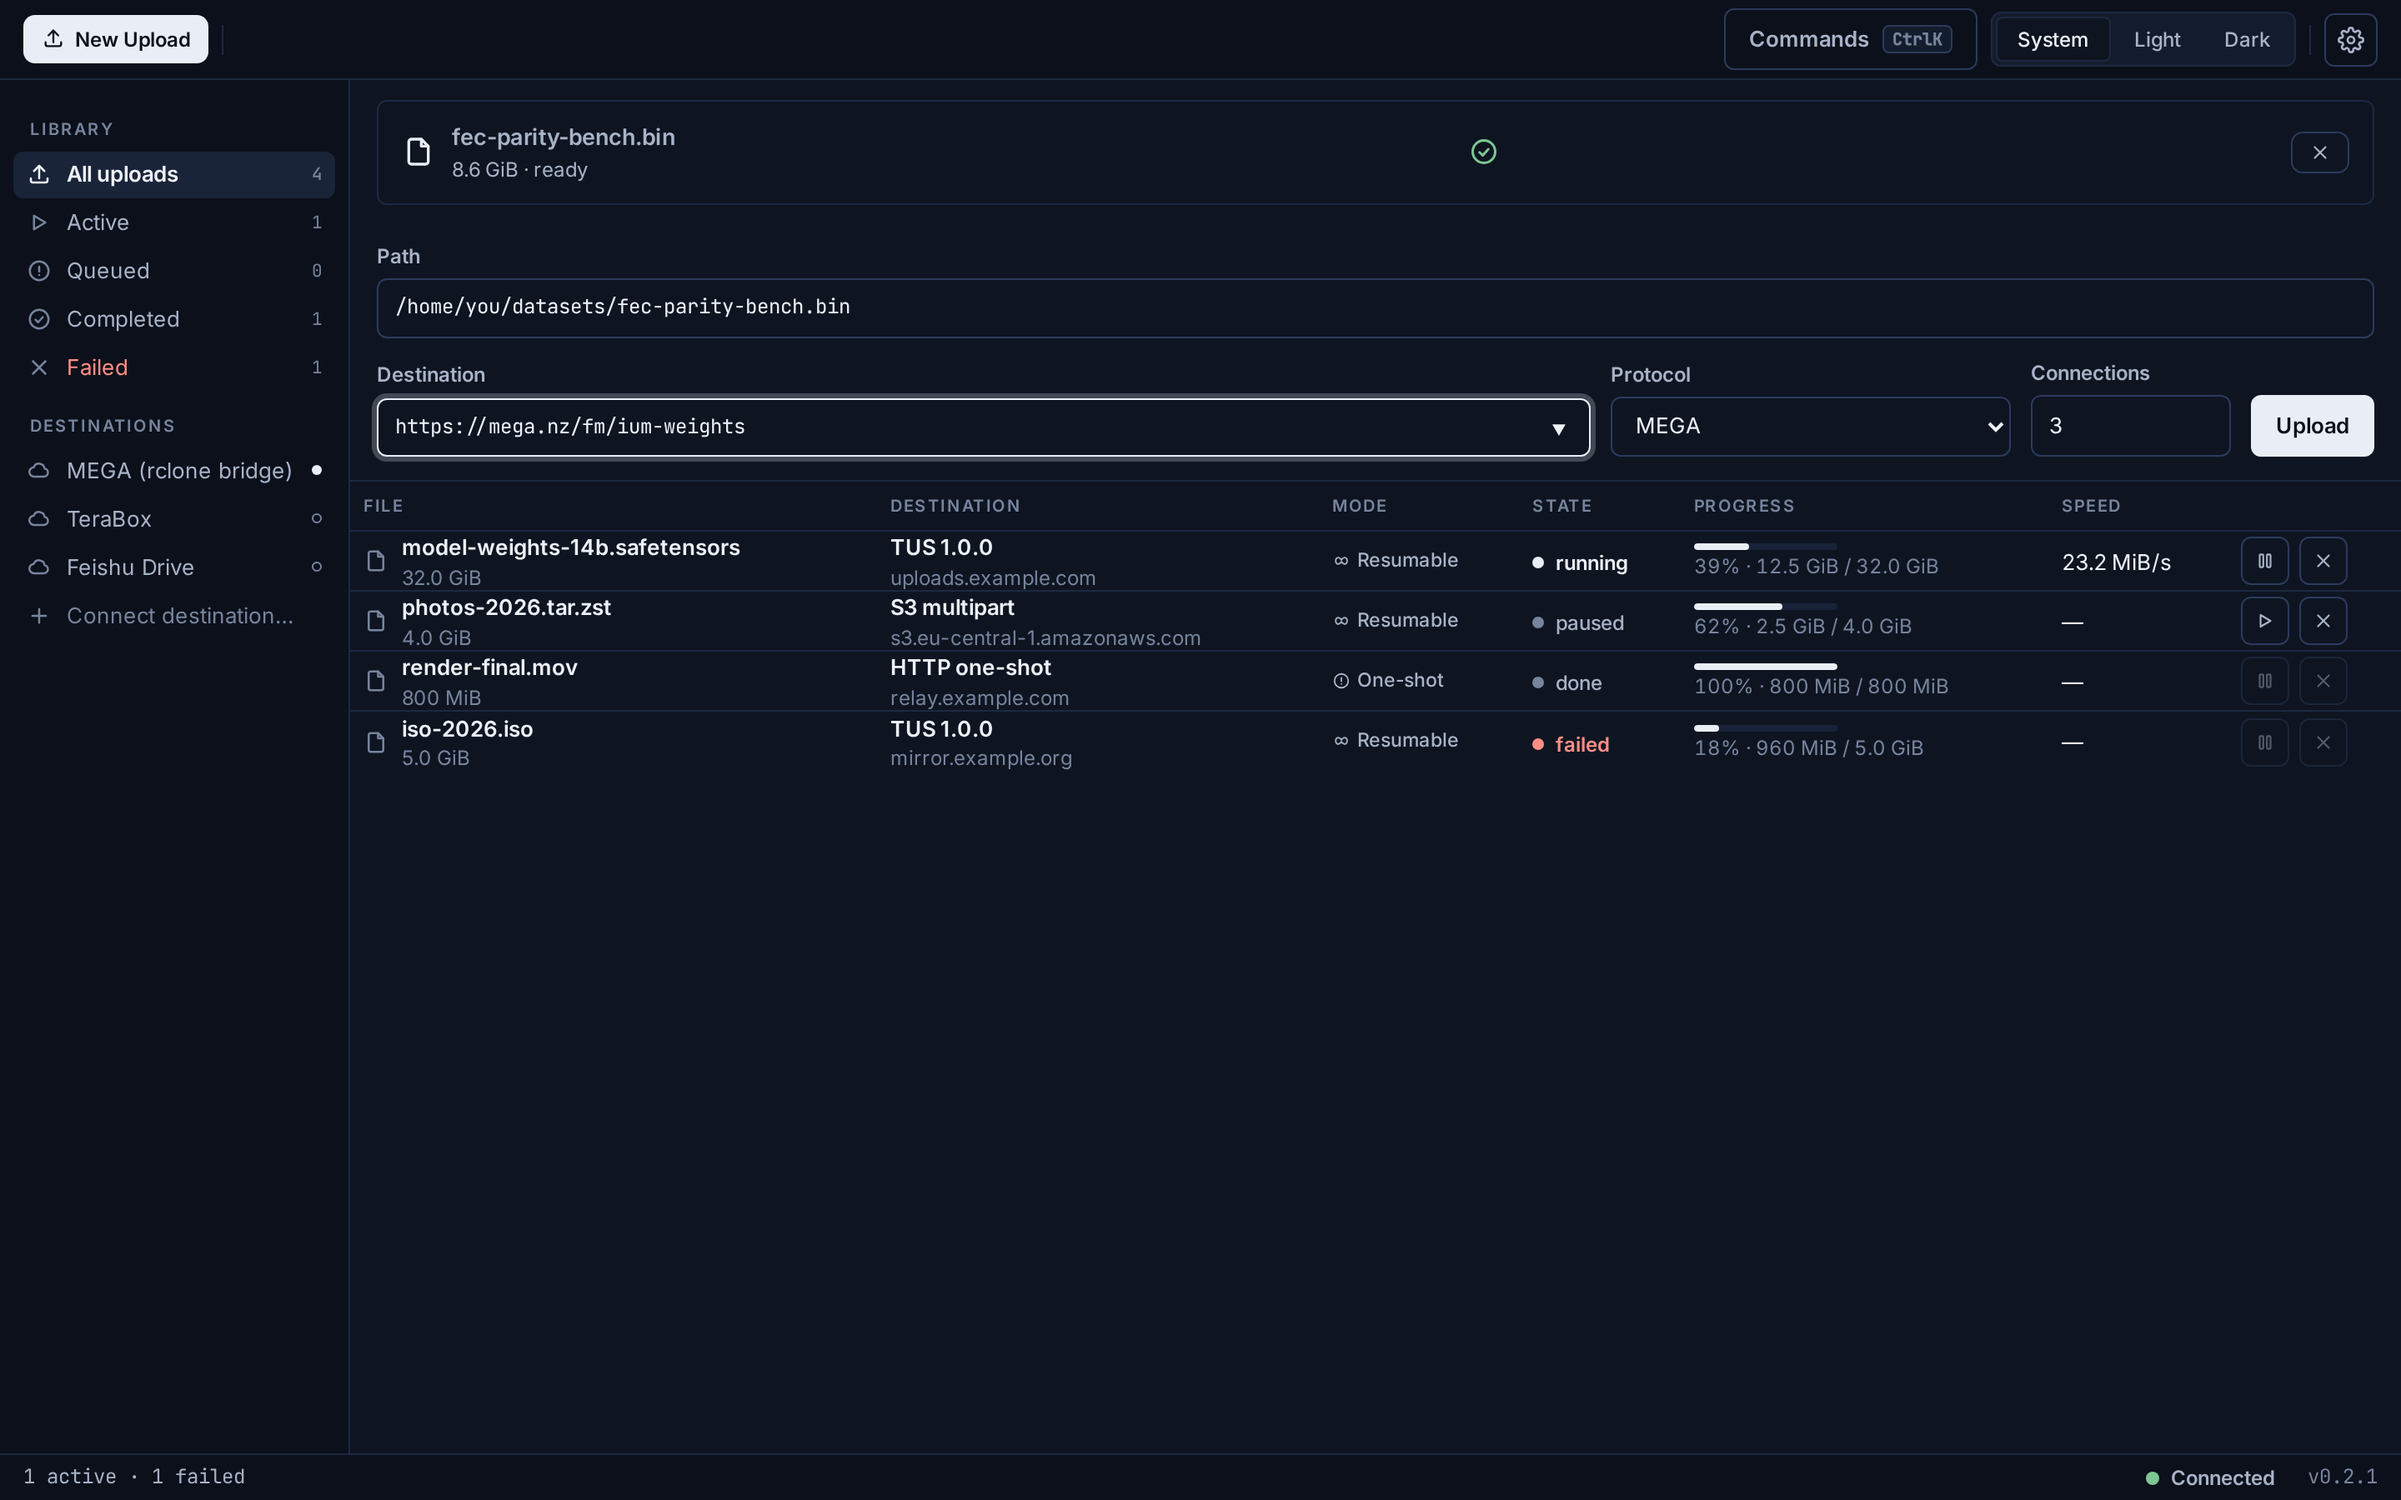
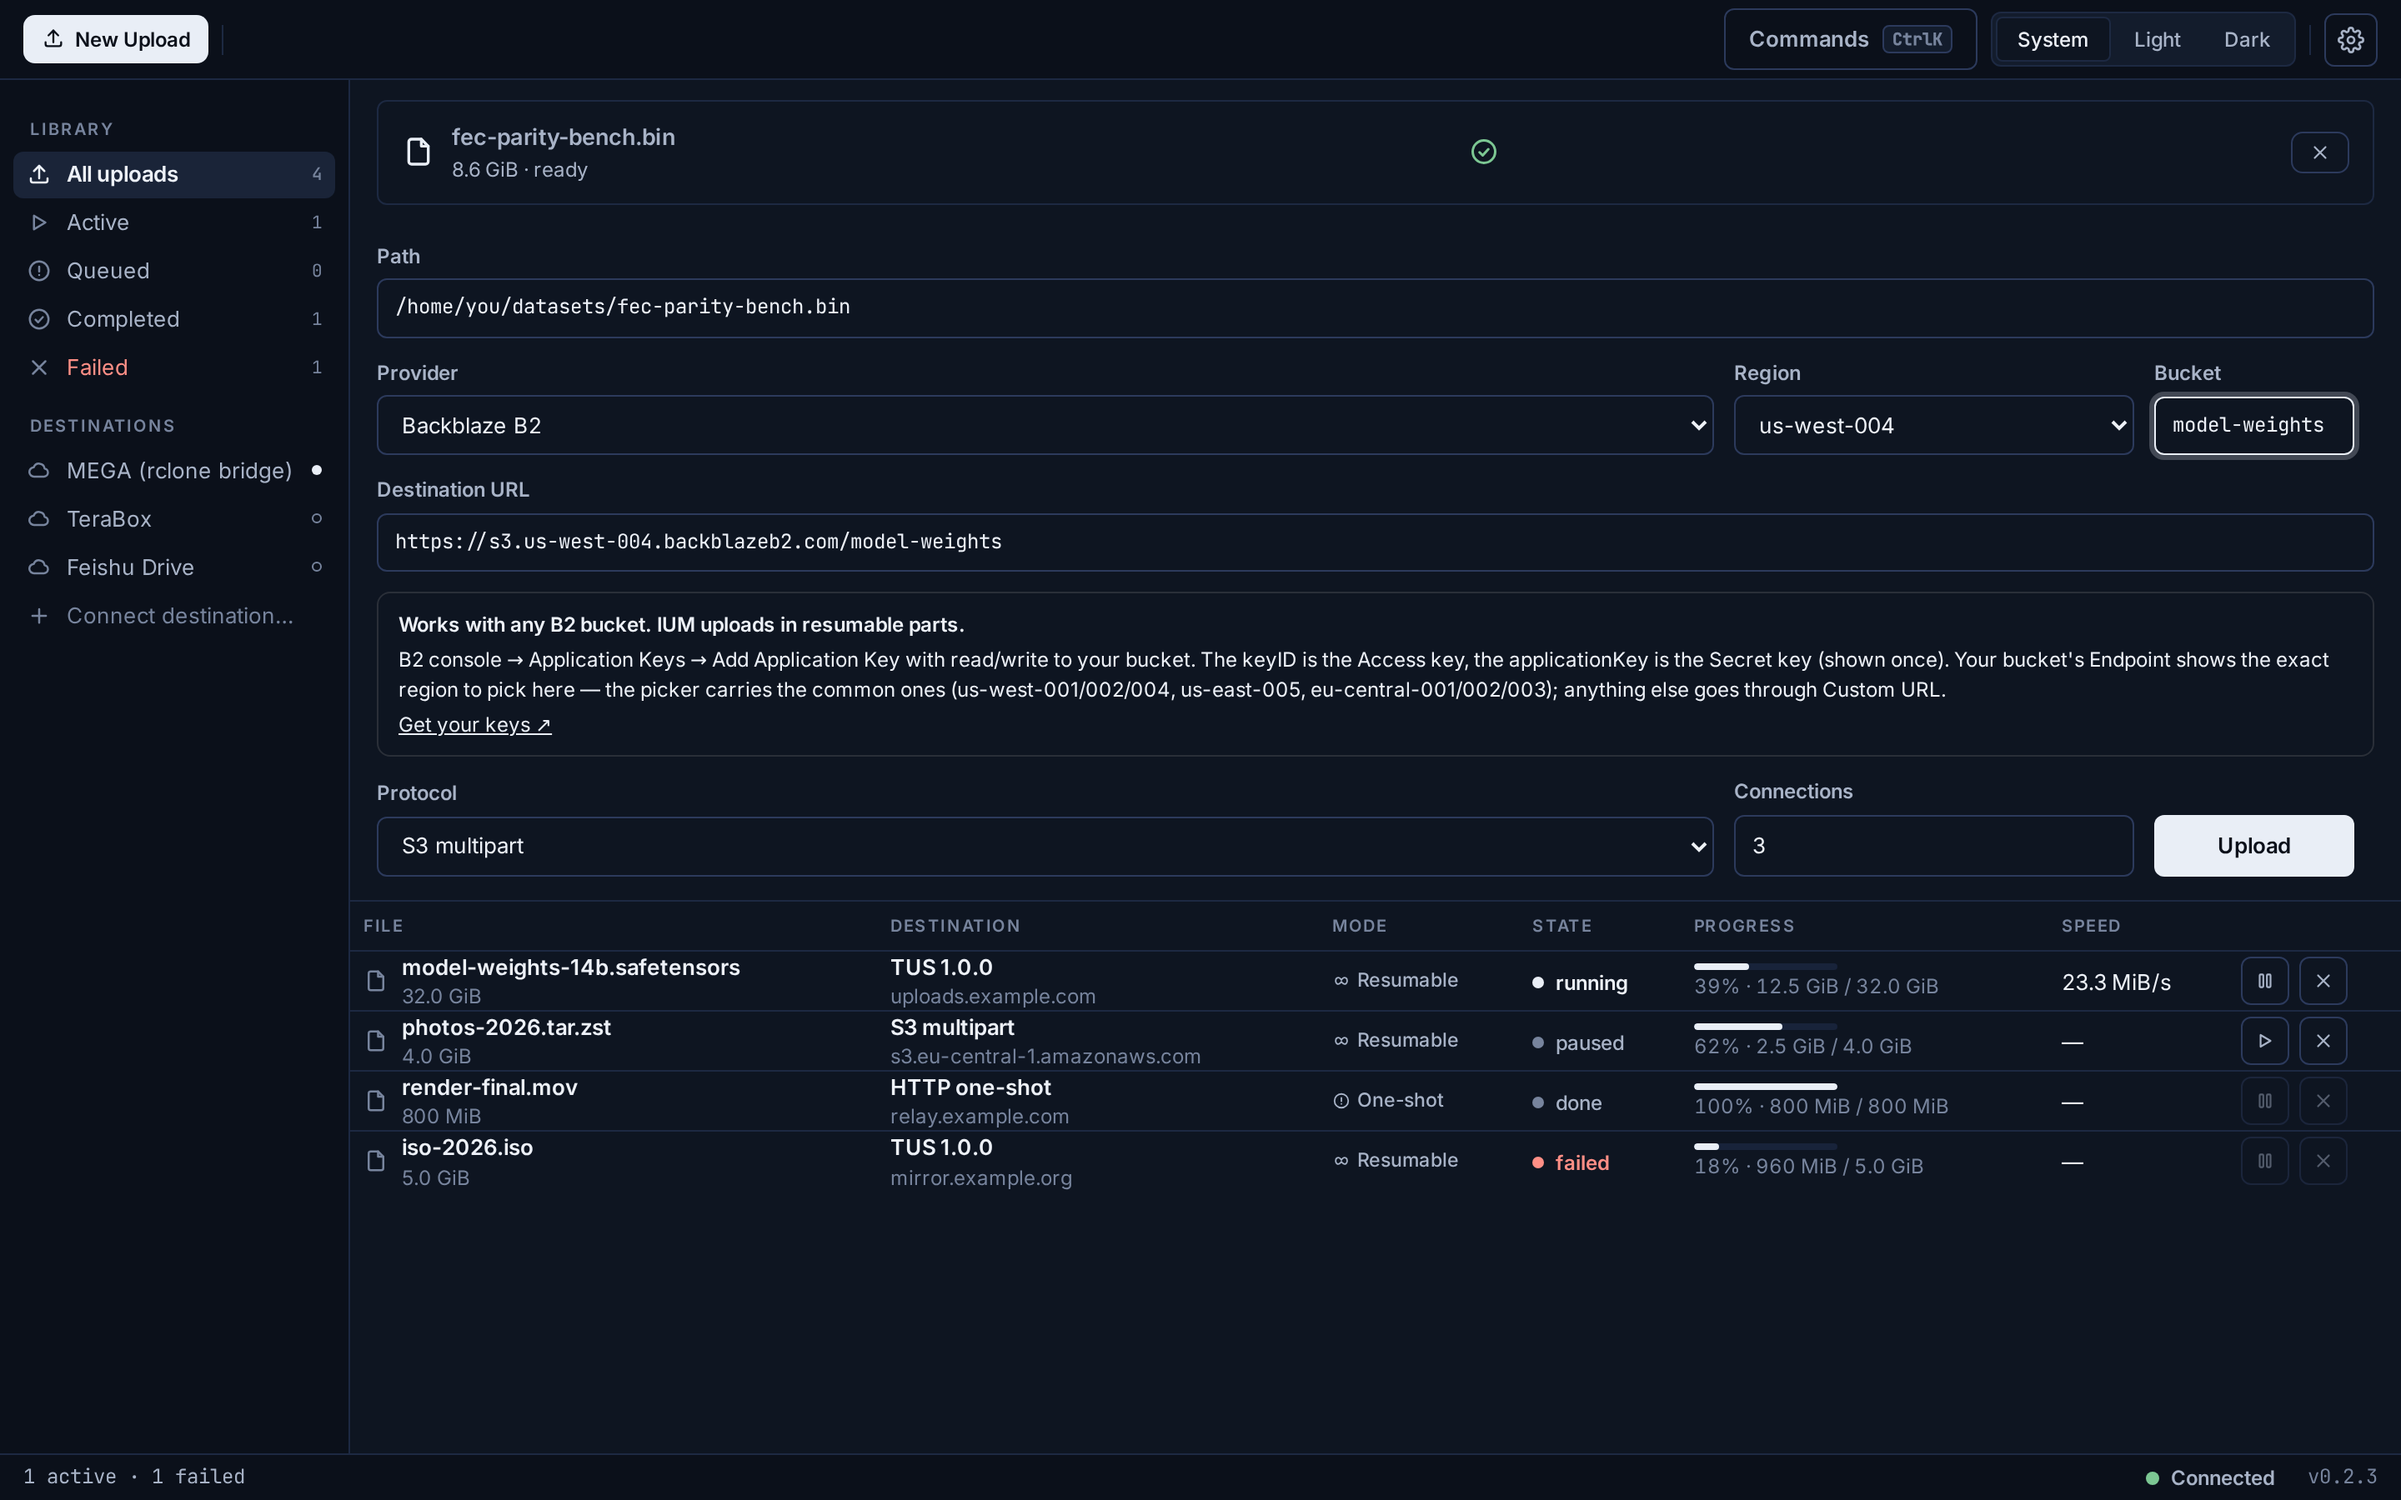
chore(release): v0.2.3 — the destination lane ships (#107)
The version doctrine (docs/05, #20): 0.PATCH is fixes/additions only,
0.MINOR is the break line — the destination lane is pure addition, so
0.2.3. Fields move together: workspace + shell crate + tauri.conf +
package.json (+ both lockfiles) + the two doc comments that named the
old version + the screenshot harness's engine sentence.

CHANGELOG [0.2.3]: the destination lane (#103, ADR-013), the guided
region as the signing region (#105), and the registry corrected against
the providers' own 2026 docs (#105) — every entry issue-cited.

All six product shots re-shot at HEAD through the real harness; shot 02
now drives the GUIDED flow (Backblaze B2 preset, region select, bucket,
derived URL, keys link) so the release's headline is the visible thing,
and the status bar speaks v0.2.3.

Closes #107 progress: rungs 1-3.

diff --git a/ium-app/src/logic.ts b/ium-app/src/logic.ts
@@ -142,7 +142,7 @@ export function hostOf(endpoint: string): string {
 
 /**
  * The engine's version, read from the engine's own sentence (#88): the
- * status bar speaks the SHORT truth — `v0.2.2` — never the raw sentence
+ * status bar speaks the SHORT truth — `v0.2.3` — never the raw sentence
  * (the #77 quiet-chrome law). Null when there is nothing honest to show.
  */
 export function parseVersion(detail: string): string | null {

diff --git a/ium-app/src/readme.test.ts b/ium-app/src/readme.test.ts
@@ -1,7 +1,7 @@
 /**
  * The README gate (#77): the README ships with receipts — the committed
  * product screenshots are embedded, and the roadmap section reflects the
- * tree's real state (v0.2.2, product-bar lanes closed, the telemetry
+ * tree's real state (v0.2.3, product-bar lanes closed, the telemetry
  * stance on record), not a stale M0–M7 / v0.1.0 snapshot.
  */
 import { readFileSync } from "node:fs";

diff --git a/scripts/screenshots.py b/scripts/screenshots.py
@@ -25,7 +25,7 @@ OUT = "/home/z/my-project/download/screenshots"
 DOCS = "/home/z/my-project/docs/screenshots"
 os.makedirs(OUT, exist_ok=True)
 
-ENGINE_SENTENCE = "ium-core v0.2.1 ready — adapters: http_one_shot, s3_multipart, tus"
+ENGINE_SENTENCE = "ium-core v0.2.3 ready — adapters: http_one_shot, s3_multipart, tus"
 
 # The OFFICIAL Tauri mock harness (node_modules/@tauri-apps/api/mocks.cjs),
 # inlined into the page by the bootstrap below. Vendor protocol, not a
@@ -171,7 +171,7 @@ SHIM = r"""
     args = args || {};
     switch (cmd) {
       case "engine_status":
-        return "ium-core v0.2.1 ready — adapters: http_one_shot, s3_multipart, tus";
+        return "ium-core v0.2.3 ready — adapters: http_one_shot, s3_multipart, tus";
       case "list_adapters":
         return ["http_oneshot", "s3_multipart", "tus", "feishu_drive", "terabox", "mega"];
       case "list_jobs":
@@ -280,12 +280,17 @@ def main() -> None:
         )
         pg.screenshot(path=f"{OUT}/01-main-window.png")
 
-        # filled intake: path stat'ed, endpoint typed, protocol picked
+        # filled intake: the GUIDED destination lane is the headline — a
+        # provider preset with its region select, bucket field, keys link,
+        # recipe and the derived readonly URL (the #107 re-shoot: the old
+        # shot drove the raw endpoint and pre-dated the picker entirely).
         pg.fill("#upload-path", "/home/you/datasets/fec-parity-bench.bin")
         pg.wait_for_selector(".dropzone--filled", timeout=8000)
-        pg.select_option("#upload-adapter", "mega")
-        pg.fill("#upload-endpoint", "https://mega.nz/fm/ium-weights")
-        pg.wait_for_timeout(350)
+        pg.select_option("#upload-adapter", "s3_multipart")
+        # the provider select's option VALUES are the preset ids (providers.ts)
+        pg.select_option("#upload-provider", "backblaze-b2")
+        pg.fill("#upload-bucket", "model-weights")
+        pg.wait_for_timeout(450)
         pg.screenshot(path=f"{OUT}/02-create-upload-filled.png")
 
         # inspector drawer on the live job

diff --git a/scripts/build_latest_json.py b/scripts/build_latest_json.py
@@ -175,10 +175,10 @@ def self_test() -> int:
         ), "manifest asset URLs are the PUBLIC distro repo's (#101)"
         assert manifest["version"] == "0.2.1" and manifest["pub_date"] == "2026-11-10T00:00:00Z"
         # the pairing rule: an unsigned bundle must FAIL the build
-        (d / "IUM_0.2.2_x64-setup.exe").write_bytes(b"bundle")
+        (d / "IUM_0.2.3_x64-setup.exe").write_bytes(b"bundle")
         try:
-            build(d, "0.2.2", "", "2026-11-10T00:00:00Z", "kahlanhamza/IUM-dist",
-                  "v0.2.2", darwin_arch="aarch64")
+            build(d, "0.2.3", "", "2026-11-10T00:00:00Z", "kahlanhamza/IUM-dist",
+                  "v0.2.3", darwin_arch="aarch64")
         except SystemExit as e:
             assert "PAIRING FAIL" in str(e)
         else:
@@ -188,8 +188,8 @@ def self_test() -> int:
         (d / "SomeOther.app.tar.gz").write_bytes(b"bundle")
         (d / "SomeOther.app.tar.gz.sig").write_text(sig + "\n")
         try:
-            build(d, "0.2.2", "", "2026-11-10T00:00:00Z", "kahlanhamza/IUM",
-                  "v0.2.2", darwin_arch="")
+            build(d, "0.2.3", "", "2026-11-10T00:00:00Z", "kahlanhamza/IUM",
+                  "v0.2.3", darwin_arch="")
         except SystemExit as e:
             assert "UNKEYED" in str(e), str(e)
         else:

diff --git a/CHANGELOG.md b/CHANGELOG.md
@@ -10,6 +10,8 @@ prose. An entry without verifiable issue numbers does not belong here.
 
 ## [Unreleased]
 
+## [0.2.3] — 2026-11-11
+
 ### Added
 - **The destination lane — regular users can finally aim the engine** (#103,
   ADR-013): the create form leads with a **provider picker** — Backblaze B2,
@@ -26,6 +28,20 @@ prose. An entry without verifiable issue numbers does not belong here.
   verdict. And a finished S3 upload can hand you a **share link** — a
   presigned GET (24 h, expiring) minted on demand from your own keys via
   `sigv4::presign_url`; nothing is ever auto-published.
+- **The guided region is the signing region** (#105): submitting a guided S3
+  destination remembers the picked region for the lane, so the request
+  signature always matches the destination — a Wasabi bucket in
+  `eu-central-2` signs as `eu-central-2`, not as a default region the
+  provider refuses. Custom URL mode writes nothing; an explicitly-set
+  `IUM_S3_REGION` still wins.
+
+### Fixed
+- **The provider registry now matches the providers' own 2026
+  documentation** (#105, every page fetched and cited on the issue): Filebase's
+  general S3 endpoint is `s3.filebase.io`; Wasabi offers all 16 documented
+  regions (was 8); DigitalOcean Spaces all 13 (was 6); Backblaze B2 gained
+  `us-east-005` and dropped the uncorroborated `us-west-003`. Every preset's
+  sample URL is re-proven through the engine's own parser.
 
 ## [0.2.2] — 2026-11-11
 
